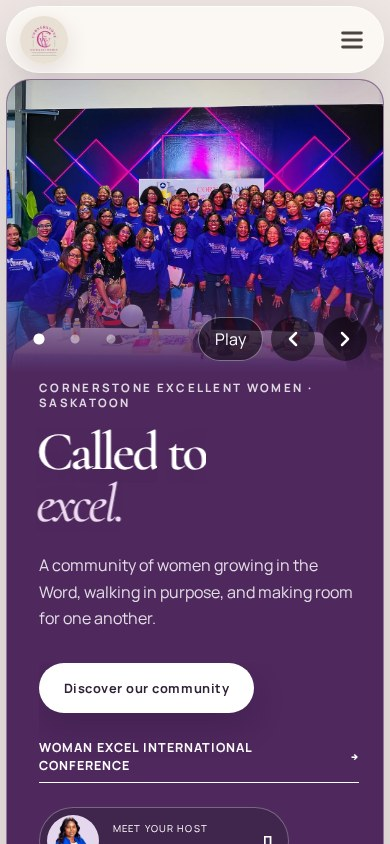
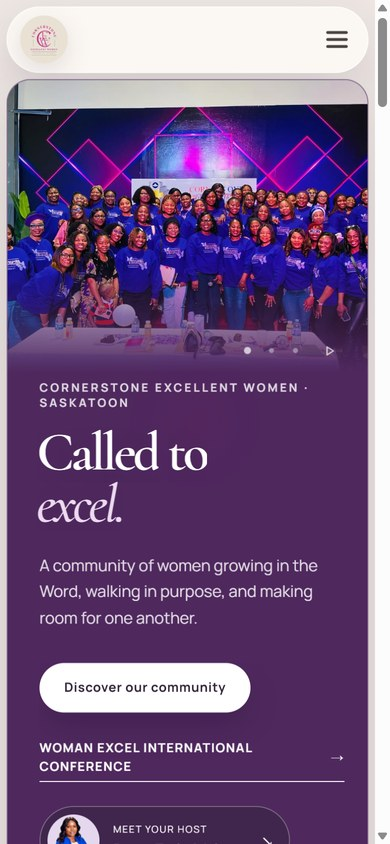
Make homepage carousel controls understated

diff --git a/apps/womanexcel/src/styles/global.css b/apps/womanexcel/src/styles/global.css
@@ -3889,7 +3889,7 @@ html { overflow-x: clip; }
     --slideshow-control-bg-hover: rgb(8 42 78 / 90%);
 }
 
-/* Keep the framed welcome, with actual group photos and visible controls. */
+/* The photos lead; carousel controls are deliberately understated. */
 .slideshow.cew-community-carousel > .overlay {
     display: flex;
     width: 100%;
@@ -3898,37 +3898,85 @@ html { overflow-x: clip; }
 }
 
 .slideshow.cew-community-carousel .arrow {
+    width: 1px;
+    height: 1px;
+    overflow: hidden;
+    clip-path: inset(50%);
+    white-space: nowrap;
+}
+
+.slideshow.cew-community-carousel .arrow:focus {
     top: auto;
-    bottom: 1.5rem;
+    bottom: 1.25rem;
     width: 2.75rem;
     height: 2.75rem;
+    clip-path: none;
     opacity: 1;
     transform: none;
 }
 
-.slideshow.cew-community-carousel .previous { left: auto; right: 5rem; }
-.slideshow.cew-community-carousel .next { right: 1.5rem; }
-.slideshow.cew-community-carousel .playback { right: 8.5rem; bottom: 1.5rem; }
+.slideshow.cew-community-carousel .previous { left: auto; right: 9rem; }
+.slideshow.cew-community-carousel .next { right: 12rem; }
+.slideshow.cew-community-carousel .playback {
+    display: grid;
+    right: 1rem;
+    bottom: 1.25rem;
+    width: 2.75rem;
+    min-width: 0;
+    height: 2.75rem;
+    padding: 0;
+    border: 0;
+    background: transparent;
+    opacity: .7;
+    place-items: center;
+}
+
+.slideshow.cew-community-carousel .playback:hover,
+.slideshow.cew-community-carousel .playback:focus-visible { opacity: 1; }
+
+.slideshow.cew-community-carousel .playback [data-playback-label] {
+    position: absolute;
+    width: 1px;
+    height: 1px;
+    overflow: hidden;
+    clip-path: inset(50%);
+}
+
+.slideshow.cew-community-carousel .playback svg {
+    width: .8rem;
+    height: .8rem;
+    fill: none;
+    stroke: currentColor;
+    stroke-linecap: round;
+    stroke-linejoin: round;
+    stroke-width: 1.75;
+}
+
+.slideshow.cew-community-carousel .playback[aria-pressed="false"] .playback-pause,
+.slideshow.cew-community-carousel .playback[aria-pressed="true"] .playback-play { display: block; }
+
 .slideshow.cew-community-carousel .dots {
-    right: 14rem;
-    bottom: 1.5rem;
+    right: 3.75rem;
+    bottom: 1.25rem;
     left: auto;
     align-items: center;
     height: 2.75rem;
-    gap: .25rem;
-    opacity: 1;
+    gap: 0;
+    opacity: .7;
 }
 
 .slideshow.cew-community-carousel[data-shared-slideshow] [data-dot] {
-    width: 2rem;
+    width: 1.5rem;
     height: 2.75rem;
-    background: radial-gradient(circle, rgb(255 255 255 / 45%) 0 4px, transparent 5px);
+    background: radial-gradient(circle, rgb(255 255 255 / 55%) 0 2px, transparent 3px);
 }
 
 .slideshow.cew-community-carousel[data-shared-slideshow] [data-dot][aria-current="true"],
 .slideshow.cew-community-carousel[data-shared-slideshow] [data-dot]:hover {
-    background: radial-gradient(circle, white 0 5px, transparent 6px);
+    background: radial-gradient(circle, white 0 3px, transparent 4px);
 }
+
+.slideshow.cew-community-carousel .dots:focus-within { opacity: 1; }
 
 .cew-community-carousel .scroll-cue,
 .cew-community-carousel .cew-scroll-cue { display: none; }
@@ -3955,19 +4003,10 @@ html { overflow-x: clip; }
         padding-bottom: 3rem;
     }
 
-    .slideshow.cew-community-carousel .dots { left: 1rem; right: auto; }
-    .slideshow.cew-community-carousel .previous { right: 4.25rem; }
-    .slideshow.cew-community-carousel .next { right: 1rem; }
-    .slideshow.cew-community-carousel .playback { right: 7.5rem; min-width: 4rem; }
-
     .slideshow.cew-community-carousel :is(.arrow, .dots, .playback) {
-        top: calc(var(--community-photo-height) - 3.5rem);
+        top: calc(var(--community-photo-height) - 2.75rem);
         bottom: auto;
     }
-}
-
-@media (max-width: 360px) {
-    .slideshow.cew-community-carousel[data-shared-slideshow] [data-dot] { width: 1.5rem; }
 }
 
 /* Fellowship hero slideshow. The shared component always renders arrows

diff --git a/docs/womanexcel-redesign-evaluation/README.md b/docs/womanexcel-redesign-evaluation/README.md
@@ -2,11 +2,11 @@
 
 These captures are included for design evaluation only. They are not a final design approval.
 
-The framed design was captured through the T3 Code collaborative preview using the connected Sanity development dataset on October 1, 2026. The homepage captures were refreshed in local Chromium after the shared preview disconnected during the final carousel checks. Newsletter screenshots therefore reflect the current development content, including test copy and imagery.
+The framed design was captured through the T3 Code collaborative preview using the connected Sanity development dataset on October 1, 2026. The homepage captures show the refined, understated carousel controls. Newsletter screenshots therefore reflect the current development content, including test copy and imagery.
 
 The screenshots show the settled state of the entrance animations. Motion, hover, scroll, and marquee behavior should be evaluated in the browser preview.
 
-The homepage opens with three supplied group photos, crossfading every three seconds. The captures pause on the opening group shot. Previous/next, image selectors, and a persistent pause/play control are available; reduced-motion preference disables autoplay. On phones, the photo sits above the copy so the group remains visible. The separate “Who we are” gathering photo is unchanged.
+The homepage opens with three supplied group photos, crossfading every three seconds. The captures pause on the opening group shot. Controls are three small dots and a compact pause/play icon, without large circular buttons or a text pill. Previous/next buttons become visible only when focused for keyboard navigation. Reduced-motion preference disables autoplay. On phones, the photo sits above the copy so the group remains visible. The separate “Who we are” gathering photo is unchanged.
 
 ## Viewports
 
